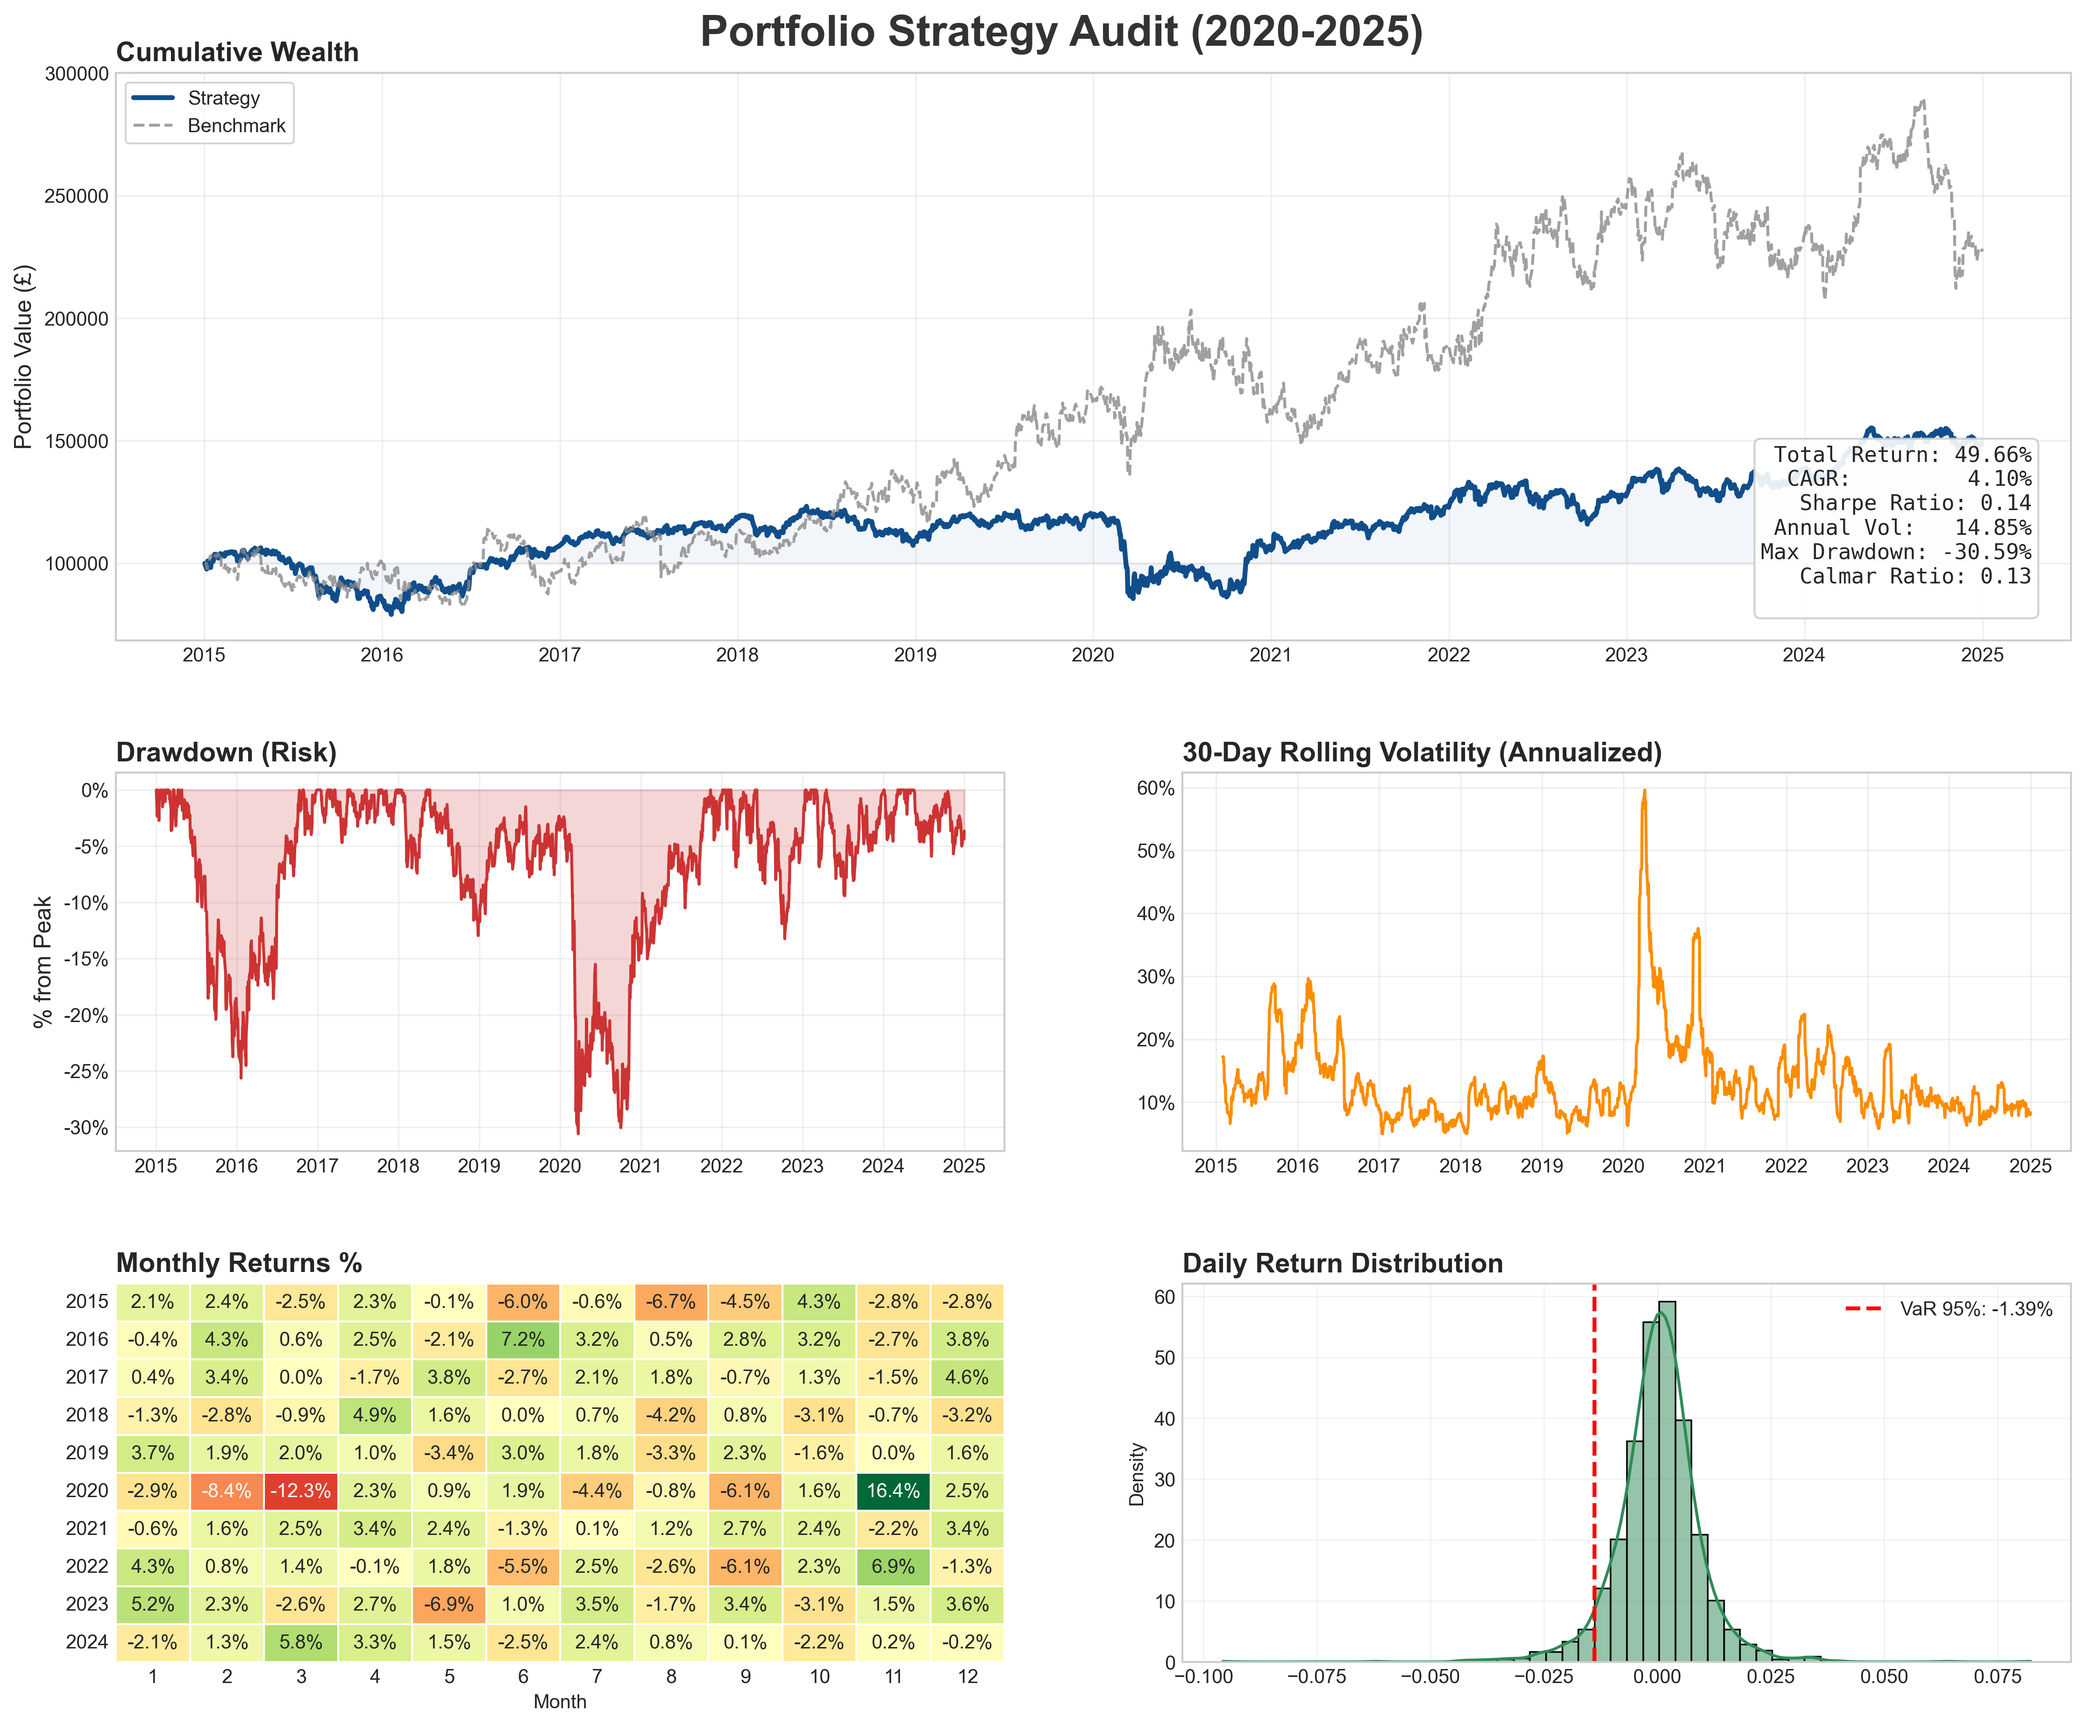
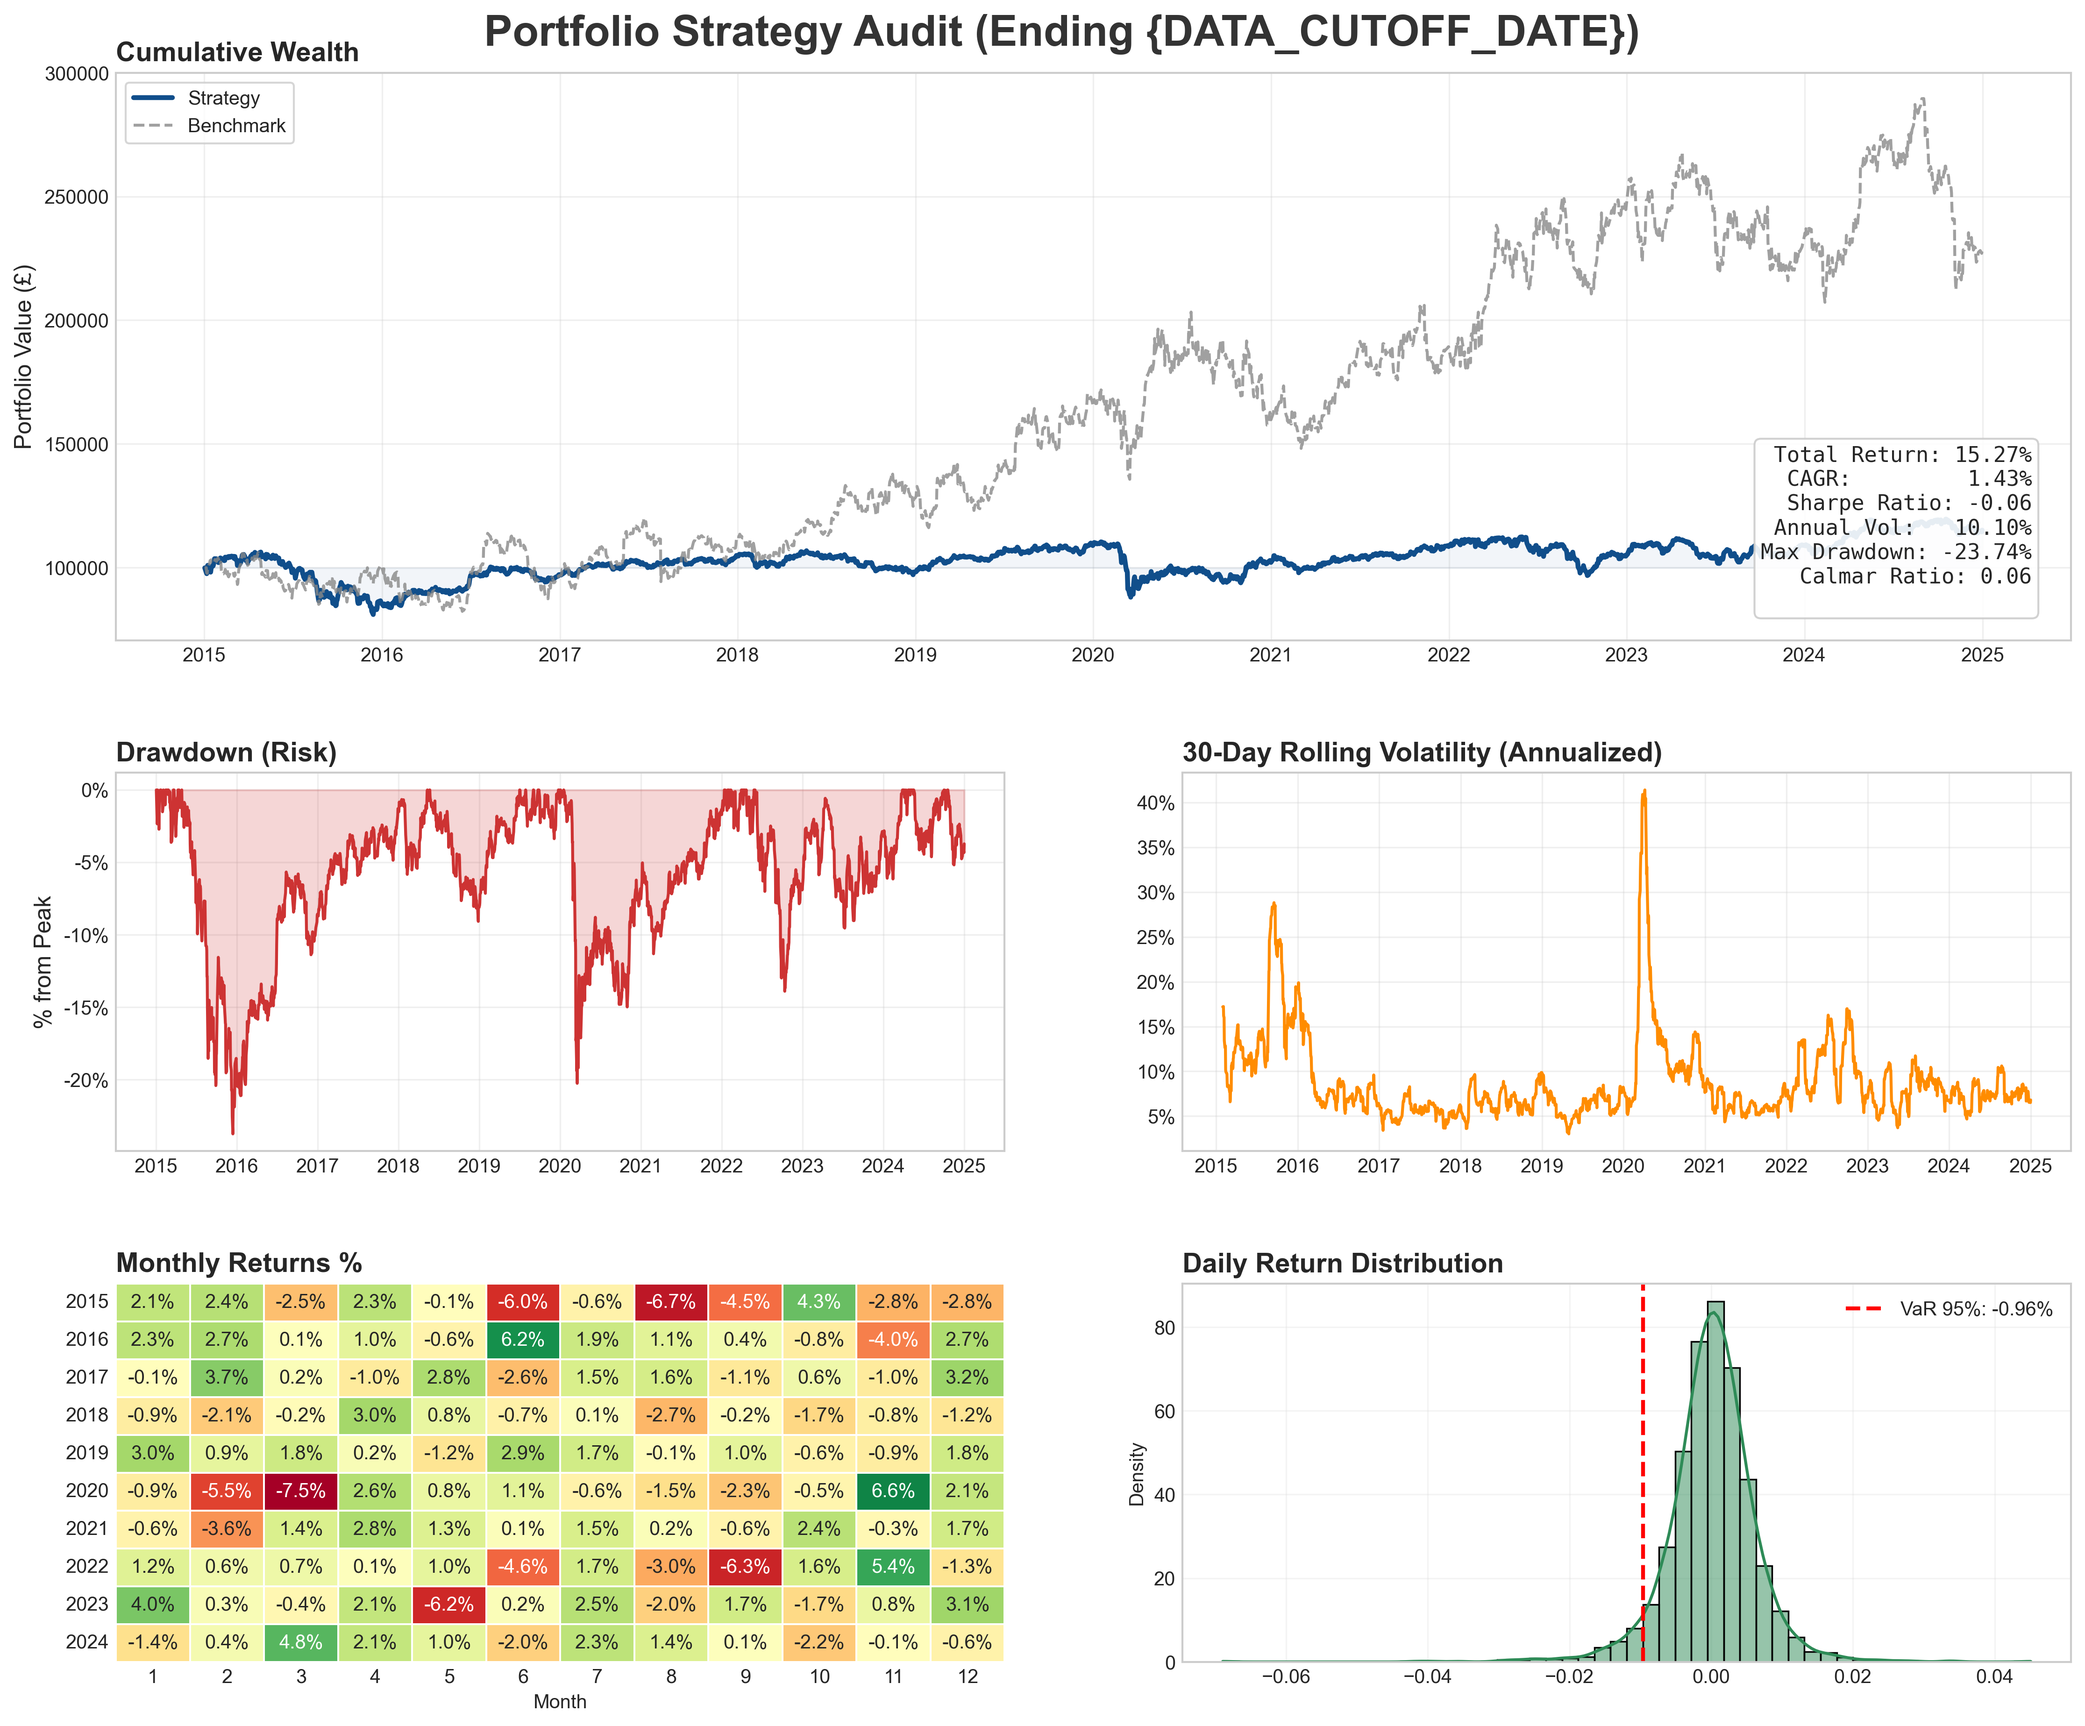
feat: implement 2025 data cutoff, macro yield integration, and risk parity baseline

diff --git a/src/main.py b/src/main.py
@@ -9,7 +9,7 @@ from dataclasses import asdict
 sys.path.append(os.path.abspath(os.path.join(os.path.dirname(__file__), '..')))
 
 from src.backtesting.backtester import Backtester
-from src.backtesting.strategies import EqualWeightStrategy, BlackLittermanStrategy
+from src.backtesting.strategies import EqualWeightStrategy, BlackLittermanStrategy, RiskParityStrategy
 from src.visualizations.plotting import create_professional_tearsheet
 from src.models.predictor import ProductionStockRegressor
 
@@ -35,18 +35,20 @@ def load_data():
 def run_full_backtest():
     # 1. Grab data
     prices = load_data()
-    tickers = list(prices.columns)
+    all_columns = list(prices.columns) # Filter tickers
+    tickers = [t for t in all_columns if t != "UK_10Y_Yield"] # Everything except gilt yield
     
     # 2. Pick benchmark for the chart
     # Just using the first asset as a baseline for now
-    benchmark_prices = prices.iloc[:, 0] 
+    benchmark_prices = prices[tickers[0]]
 
     print("\n--- 🚀 Kicking off simulation ---")
-
+    if "UK_10Y_Yield" in all_columns:
+        print("--- 📌 Macro context: UK 10Y Yield detected for risk-adjusted metrics ---")
     # 3. Pick the Strategy
     # TODO: Swap this for BlackLittermanStrategy once the optimiser logic is ready.
     # Using Equal Weights (1/N) for now just to test the pipeline works.
-    strat = EqualWeightStrategy(tickers=tickers)
+    strat = RiskParityStrategy(tickers=tickers, cov_window=252) # 1 year rolling covariance for risk parity weights
 
     # 4. Engine setup
     bt = Backtester(
@@ -82,7 +84,7 @@ def run_full_backtest():
     create_professional_tearsheet(
         results=results_dict, 
         benchmark_prices=benchmark_prices, 
-        title="Portfolio Strategy Audit (2020-2025)"
+        title="Portfolio Strategy Audit (Ending {DATA_CUTOFF_DATE})",
     )
 
 if __name__ == "__main__":

diff --git a/build_clean_prices.py b/build_clean_prices.py
@@ -21,6 +21,10 @@ def load_and_prepare_csv(path: str) -> pd.DataFrame:
     df.iloc[:, 0] = pd.to_datetime(df.iloc[:, 0])
     df = df.rename(columns={df.columns[0]: "Date"})
     ticker = os.path.splitext(os.path.basename(path))[0]
+
+    if ticker == "^v30082.L":
+        ticker = "UK_10Y-Yield"
+
     close_series = df["Close"]
 
     df_out = pd.DataFrame(

diff --git a/download_raw_data.py b/download_raw_data.py
@@ -15,7 +15,8 @@ ASSET_GROUPS = {
         "RIO.L", "GLEN.L", "NG.L", "VOD.L", "RR.L",
     ],
     "bonds": [
-        "IGLT.L",      
+        "IGLT.L",
+        "^v30082.L",      
     ],
     "precious_metals_etc": [
         "SGLD.L",      
